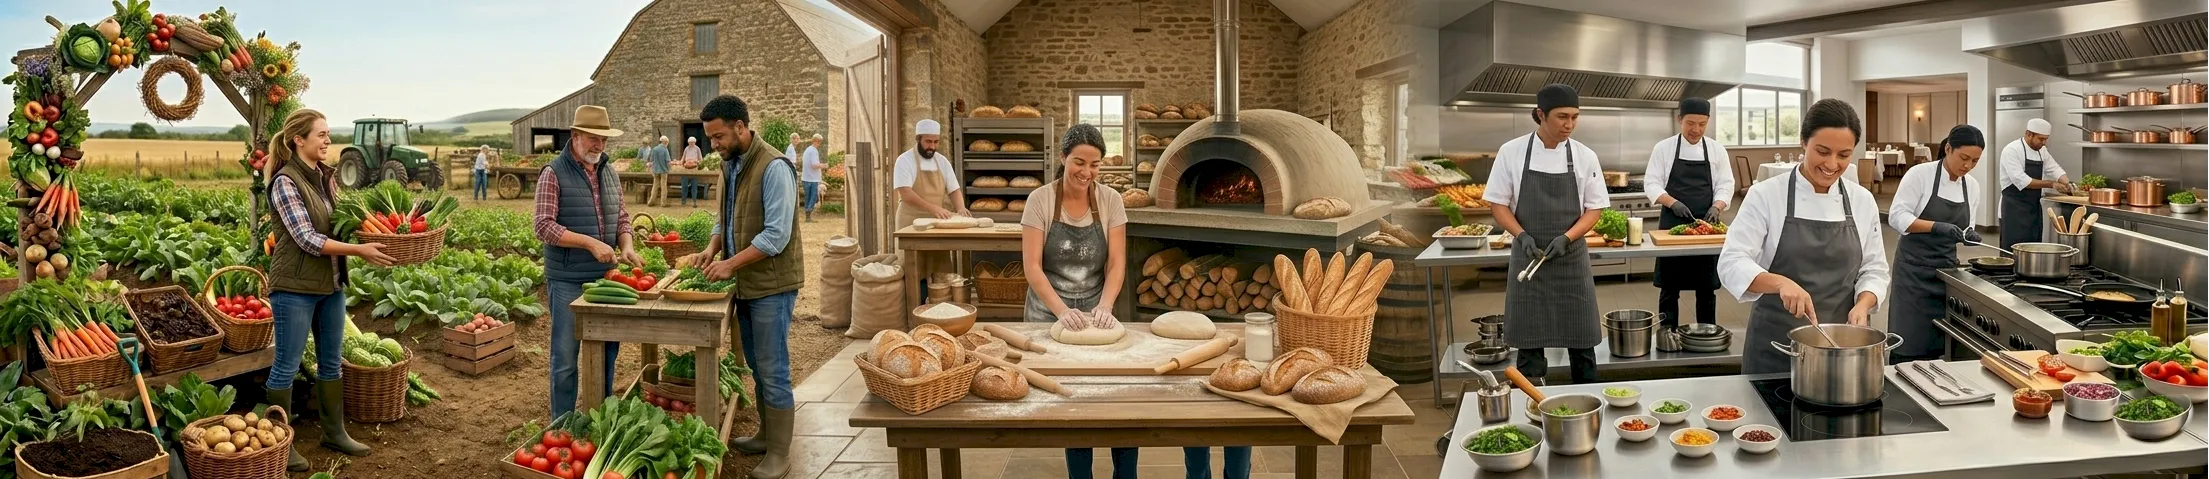
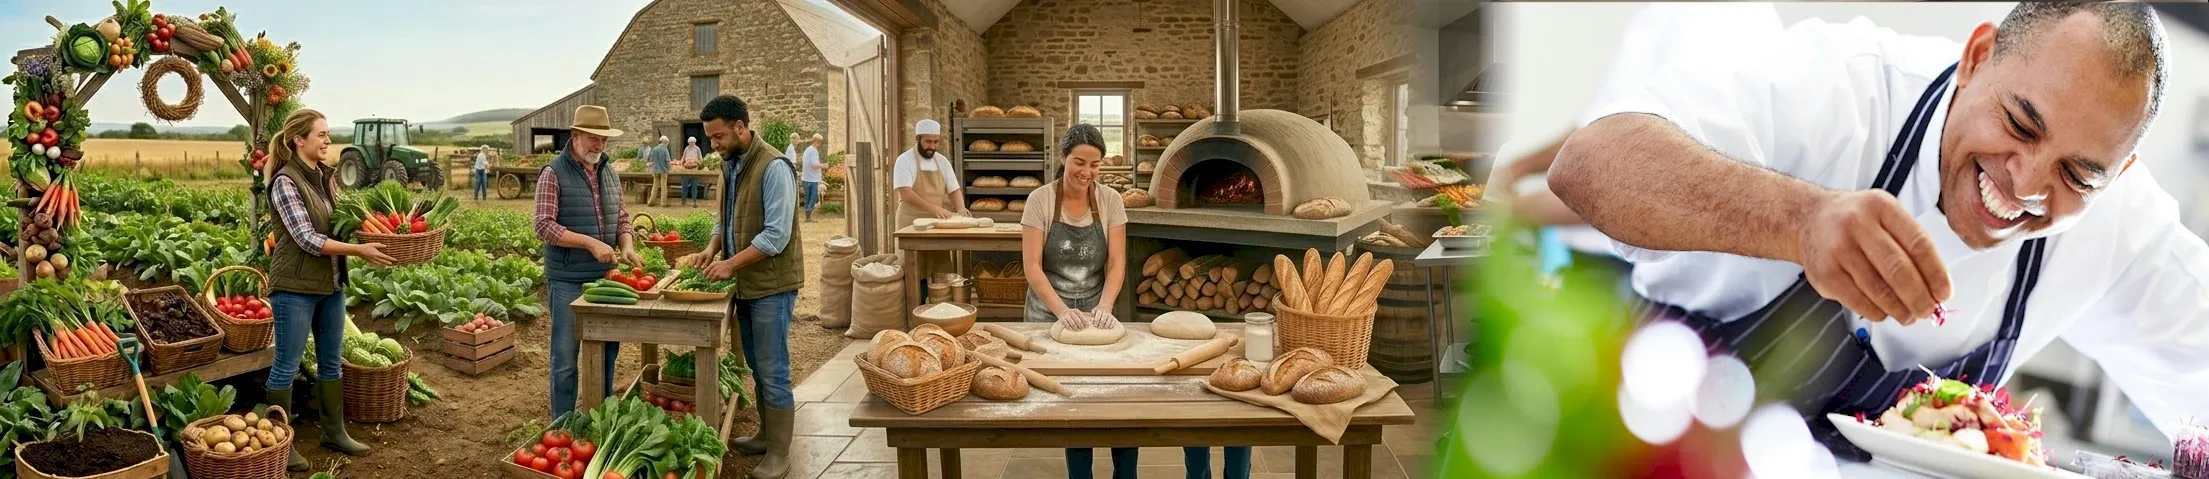
modified:   public/images/DirectoryHeaderImage.webp 	new file:   public/images/PairsleyBanner.webp 	modified:   public/images/SaigeBanner.webp 	modified:   src/AboutPairsley.jsx 	modified:   src/AboutSaige.jsx 	modified:   src/EventsList.jsx 	modified:   src/Header.jsx

diff --git a/src/Header.jsx b/src/Header.jsx
@@ -347,7 +347,7 @@ const Header = () => {
           </ul>
         </div>
 
-        {/* Right side: icons on desktop, hamburger on mobile */}
+        {/* Right: icons on desktop, hamburger on mobile */}
         <div className="flex items-center gap-3 shrink-0">
           {isLoggedIn ? (
             <div className="hidden lg:flex items-center gap-3">
@@ -367,10 +367,7 @@ const Header = () => {
                   </svg>
                 </button>
                 {psOpen && (
-                  <div
-                    className="absolute right-0 top-full pt-2 w-52 z-10000"
-                    onMouseLeave={() => setPsOpen(false)}
-                  >
+                  <div className="absolute right-0 top-full pt-2 w-52 z-10000" onMouseLeave={() => setPsOpen(false)}>
                     <div className="bg-white rounded shadow-lg overflow-hidden">
                       <Link to="/account/settings" onClick={() => setPsOpen(false)} className="block px-3 py-2 text-xs text-gray-700 hover:bg-gray-100">Login &amp; Account</Link>
                       <Link to="/account/settings?tab=audio" onClick={() => setPsOpen(false)} className="block px-3 py-2 text-xs text-gray-700 hover:bg-gray-100">Language &amp; Audio Settings</Link>
@@ -378,23 +375,14 @@ const Header = () => {
                   </div>
                 )}
               </div>
-              <button
-                onClick={handleLogout}
-                title={t('nav.log_out')}
-                className="text-white/80 hover:text-white transition-colors flex items-center"
-              >
+              <button onClick={handleLogout} title={t('nav.log_out')} className="text-white/80 hover:text-white transition-colors flex items-center">
                 <LogoutIcon />
               </button>
             </div>
           ) : (
             <div className="hidden lg:flex items-center gap-3">
               <LanguageSelector />
-              <Link
-                to="/login"
-                title={t('nav.login')}
-                className="flex items-center transition-colors"
-                style={{ color: 'rgba(255,255,255,0.8)' }}
-              >
+              <Link to="/login" title={t('nav.login')} className="flex items-center transition-colors" style={{ color: 'rgba(255,255,255,0.8)' }}>
                 <LoginIcon />
               </Link>
             </div>

diff --git a/src/EventsList.jsx b/src/EventsList.jsx
@@ -61,18 +61,20 @@ export default function EventsList() {
       <Header />
 
       {/* Hero */}
-      <div
-        className="relative bg-[#3D6B34] text-white py-16 px-4 bg-center bg-cover"
-        style={{ backgroundImage: "url('/images/EventsHeader.webp')" }}
-      >
-        <div className="absolute inset-0 bg-black/40" aria-hidden="true" />
-        <div className="relative max-w-5xl mx-auto">
-          <h1 className="text-3xl font-bold mb-2 drop-shadow" style={{ color: '#fff' }}>{t('events.title')}</h1>
-          <p className="text-white drop-shadow">{t('events.subtitle')}</p>
+      <div className="w-full mx-auto px-4 pt-2" style={{ maxWidth: '1300px' }}>
+        <div
+          className="relative bg-[#3D6B34] text-white py-16 px-8 bg-center bg-cover rounded-xl overflow-hidden"
+          style={{ backgroundImage: "url('/images/EventsHeader.webp')" }}
+        >
+          <div className="absolute inset-0 bg-black/40" aria-hidden="true" />
+          <div className="relative">
+            <h1 className="text-3xl font-bold mb-2 drop-shadow" style={{ color: '#fff' }}>{t('events.title')}</h1>
+            <p className="text-white drop-shadow">{t('events.subtitle')}</p>
+          </div>
         </div>
       </div>
 
-      <div className="max-w-5xl mx-auto px-4 py-8 grow w-full">
+      <div className="max-w-[1300px] mx-auto px-4 py-8 grow w-full">
         <Breadcrumbs items={[
           { label: 'Home', to: '/' },
           { label: t('events.title') },

diff --git a/src/AboutPairsley.jsx b/src/AboutPairsley.jsx
@@ -117,7 +117,7 @@ export default function AboutPairsley() {
       <div className="mx-auto px-4 pt-2" style={{ maxWidth: '1300px' }}>
         <div className="relative w-full overflow-hidden rounded-xl">
           <img
-            src="/images/CoreFeaturesFarm2Table.webp"
+            src="/images/PairsleyBanner.webp"
             alt="Pairsley AI for Restaurants &amp; Professional Kitchens"
             className="w-full object-cover"
             style={{ height: '260px', display: 'block' }}

diff --git a/src/AboutSaige.jsx b/src/AboutSaige.jsx
@@ -35,7 +35,7 @@ export default function AboutSaige() {
       <div className="mx-auto px-4 pt-2" style={{ maxWidth: '1300px' }}>
         <div className="relative w-full overflow-hidden rounded-xl">
           <img
-            src="/images/CoreFeaturesFarm2Table.webp"
+            src="/images/SaigeBanner.webp"
             alt="Saige AI Agricultural Assistant"
             className="w-full object-cover"
             style={{ height: '260px', display: 'block' }}
